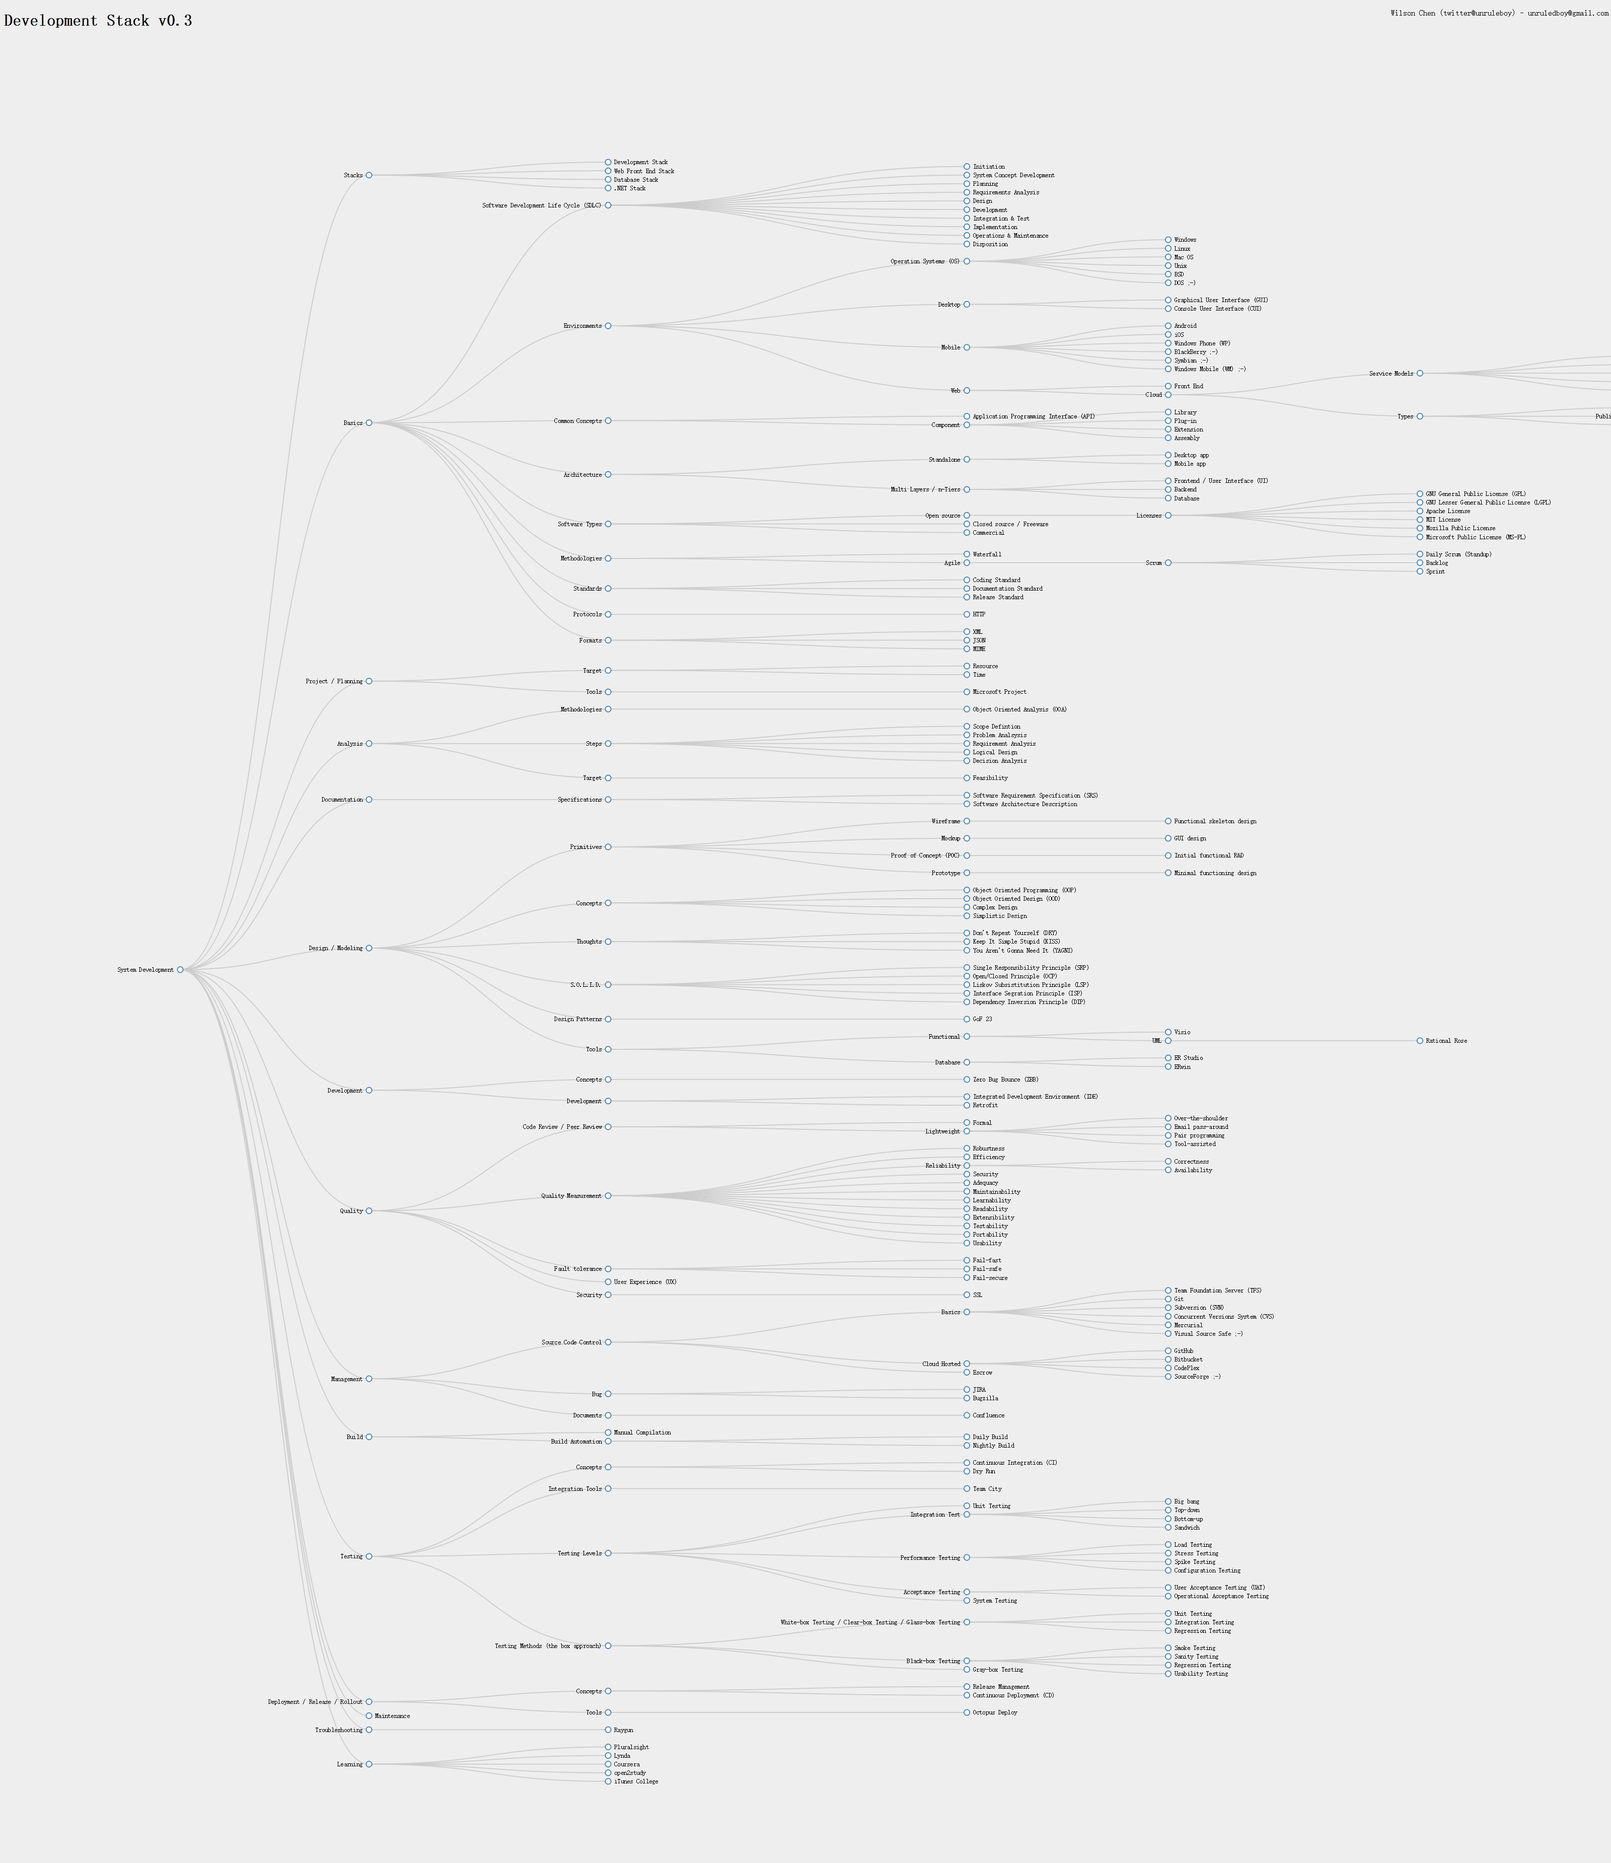
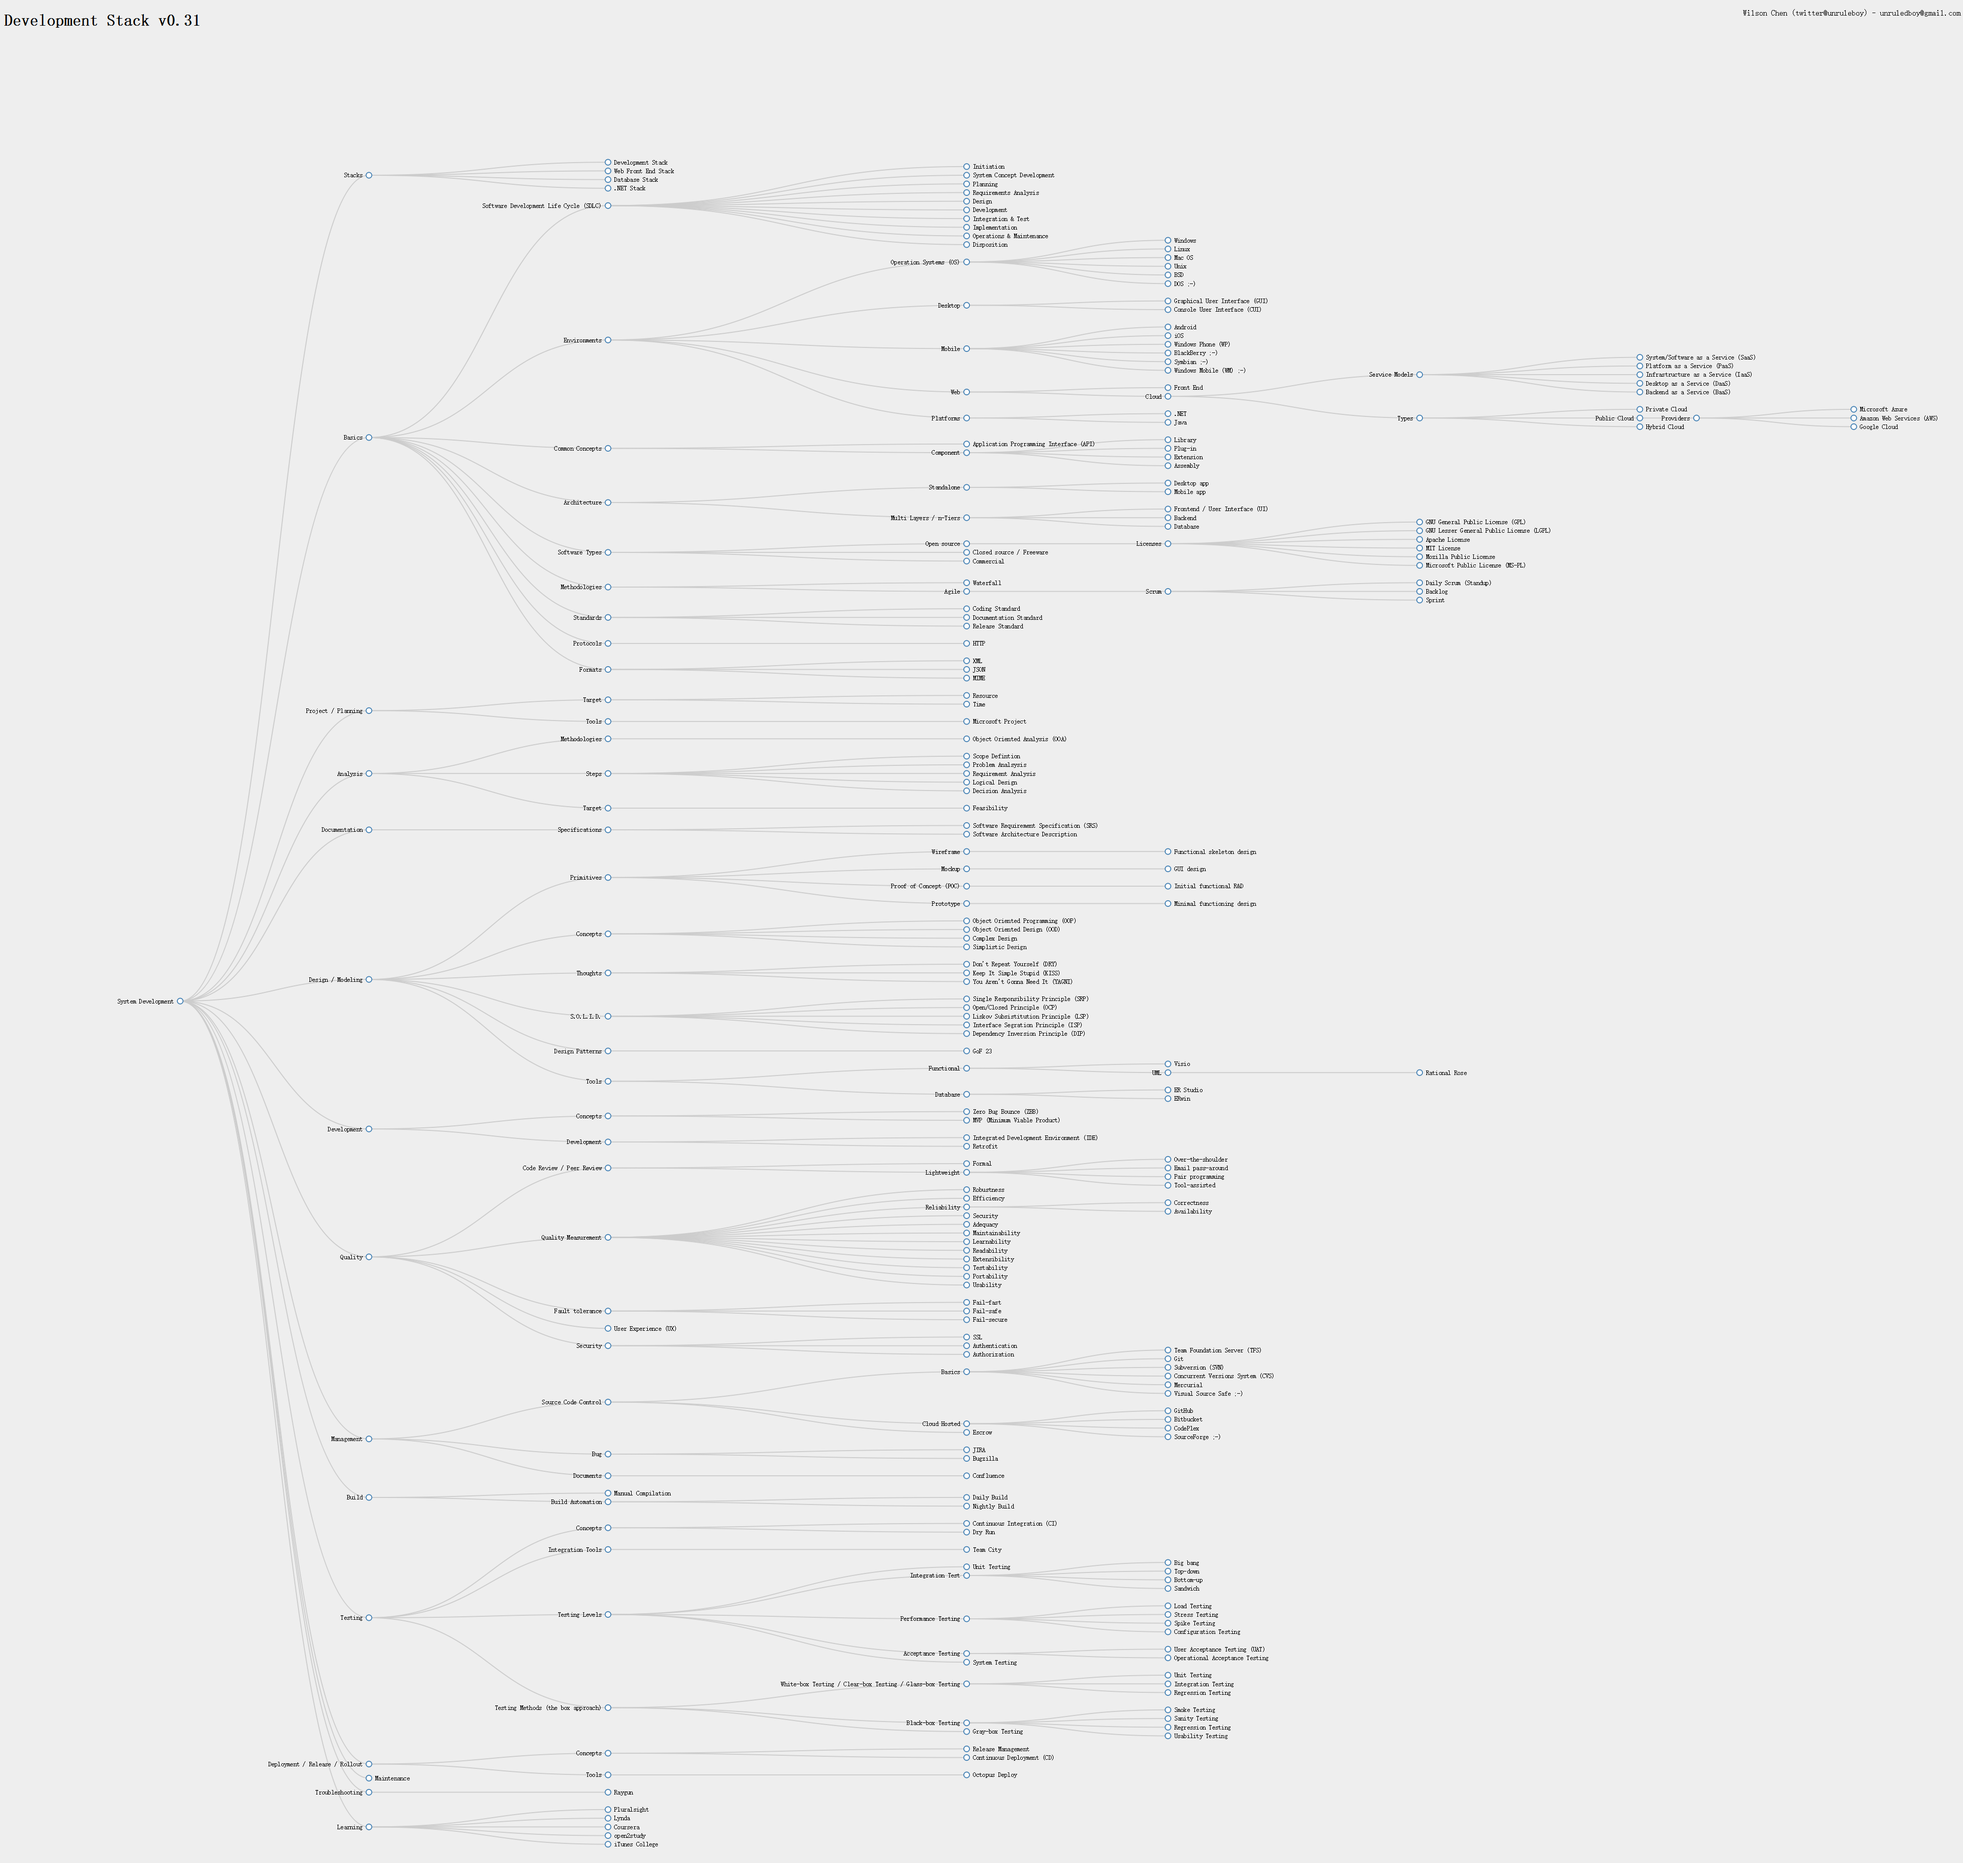
v2.5
added platforms, security

diff --git a/ux/DevelopmentStack.htm b/ux/DevelopmentStack.htm
@@ -95,7 +95,7 @@
     <div class="container">
         <header>
             <div class="left">
-                <h1><a href="https://github.com/unruledboy/DevelopmentStack" target="_blank">Development Stack v0.3</a></h1>
+                <h1><a href="https://github.com/unruledboy/DevelopmentStack" target="_blank">Development Stack v0.31</a></h1>
             </div>
             <div class="right">
                 <p><a href="http://github.com/unruledboy">Wilson Chen (twitter@unruleboy) - unruledboy@gmail.com</a></p>

diff --git a/index.js b/index.js
@@ -12,7 +12,7 @@ var fs = Promise.promisifyAll(require('fs'));
 var app = new express();
 var queueReady = ["server"];
 
-var pageWidth = 3200; // Magic number!
+var pageWidth = 3900; // Magic number!
 var pageHeight = 3700;
 
 var config = {

diff --git a/README.md b/README.md
@@ -80,6 +80,9 @@ https://rawgit.com/unruledboy/DevelopmentStack/master/ux/DevelopmentStack.htm
 								- Amazon Web Services (AWS)
 								- Google Cloud
 						- Hybrid Cloud
+			- Platforms
+				- [.NET](https://github.com/unruledboy/DotNetStack)
+				- [Java](https://www.java.com)
 		- Common Concepts
 			- Application Programming Interface (API)
 			- Component
@@ -94,7 +97,7 @@ https://rawgit.com/unruledboy/DevelopmentStack/master/ux/DevelopmentStack.htm
 			- Multi Layers / n-Tiers
 				- Frontend / User Interface (UI)
 				- Backend
-				- Database
+				- [Database](https://github.com/unruledboy/DatabaseStack)
 		- Software Types
 			- Open source
 				- Licenses
@@ -182,6 +185,7 @@ https://rawgit.com/unruledboy/DevelopmentStack/master/ux/DevelopmentStack.htm
 	- Development
 		- Concepts
 			- Zero Bug Bounce (ZBB)
+			- [MVP (Minimum Viable Product)](https://en.wikipedia.org/wiki/Minimum_viable_product)
 		- Development
 			- Integrated Development Environment (IDE)
 			- Retrofit
@@ -193,7 +197,7 @@ https://rawgit.com/unruledboy/DevelopmentStack/master/ux/DevelopmentStack.htm
 				- Email pass-around
 				- Pair programming
 				- Tool-assisted
-		- Quality Measurement
+		- [Quality Measurement](https://en.wikipedia.org/wiki/Software_quality)
 			- Robustness
 			- Efficiency
 			- Reliability
@@ -209,12 +213,14 @@ https://rawgit.com/unruledboy/DevelopmentStack/master/ux/DevelopmentStack.htm
 			- Portability
 			- Usability
 		- Fault tolerance
-			- Fail-fast
+			- [Fail-fast](https://en.wikipedia.org/wiki/Fail-fast)
 			- Fail-safe
 			- Fail-secure
 		- User Experience (UX)
 		- Security
 			- SSL
+			- Authentication
+			- Authorization
 	- Management
 		- Source Code Control
 			- Basics
